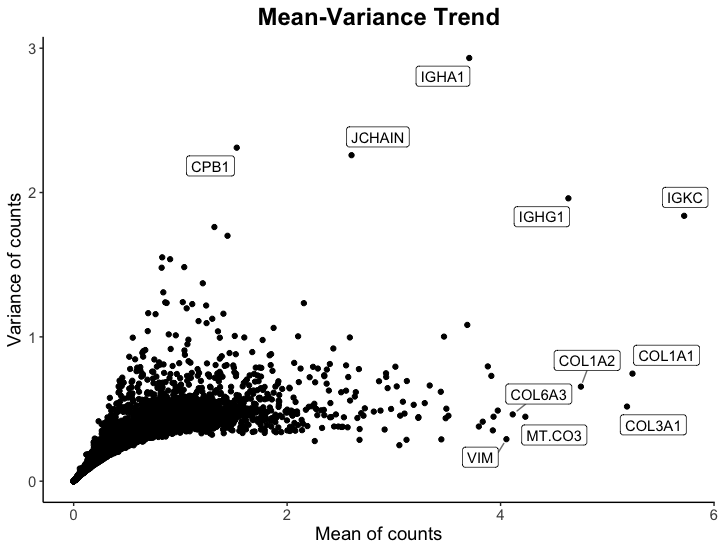
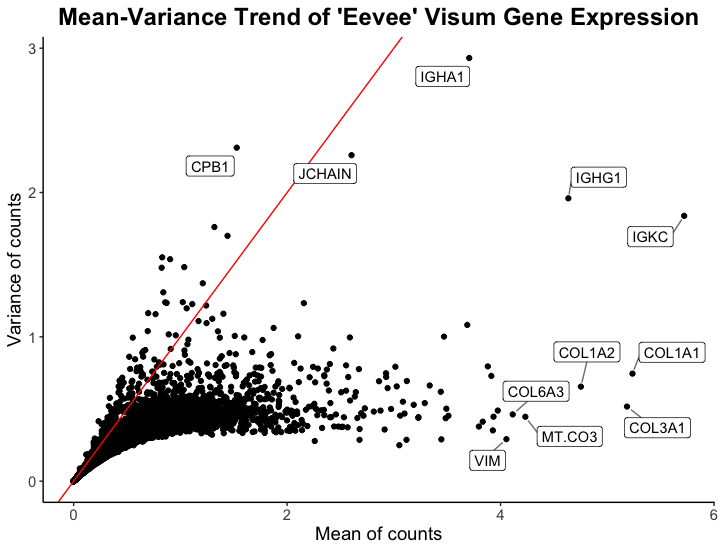
update photo, finish write up

diff --git a/_posts/2024-01-29-challin1.md b/_posts/2024-01-29-challin1.md
@@ -10,23 +10,36 @@ featured: false
 
 ### What data types are you visualizing?
 
+I am visualizing quantitative and categorical data. The quantitative data is the mean and variance of gene expression for all genes, while the categorical data being expressed is a handful of the names of high mean/variance genes.
+
 
 ### What data encodings (geometric primitives and visual channels) are you using to visualize these data types?
+
+The visual channel I am using to visualize the quantitative variables of mean and variance of gene expression is position, where the x-axis shows the mean of gene counts and the y-axis shows the variance of gene counts. The geometric primitive used for the quantitative variables are points.
+
+For the the categorical data of individual gene names, the visual channel I am using is position to express which point correspond to which gene name. I would argue there is not really a geometric primitive used here, however I heavily rely on Gestalts principle of enclosure (there is a border around the gene names) to draw the viewer's eye to the high mean/variance genes.
 
 
 ### What about the data are you trying to make salient through this data visualization? 
 
+My data visualization aims to make more salient the high mean and/or variance genes within the spatial transcriptomics visium data. Ideally, this plot aims to inform the analyst of what genes might be of interest in downstream analysis or spatial plotting of this spatial transcriptomics data.
+
+
 ### What Gestalt principles or knowledge about perceptiveness of visual encodings are you using to accomplish this?
 
+The main Gestalt principle I am utilizing is enclosure, where gene names are enclosed with a box next to the point that represents that gene. Another Gestalt principle I use is proximity to ensure viewers know which point corresponds to which gene name. Finally, one could say I use Gestalt's principle of continuity by plotting a red line with intercept 0 and slope 1 to express what the 1:1 relationship of the mean to variance ratio would look like in this plot.
+
+
 ```{r}
-# Eevee sequencing data class 1/26
+### HW1 ###
+## Caleb Hallinan ##
+## Eevee sequencing data##
 
 # import libraries
 library(here)
 library(ggplot2)
 library(tidyverse)
 library(ggrepel)
-
 
 # read in data
 data = read.csv(here("data/eevee.csv.gz"), row.names = 1)
@@ -59,6 +72,7 @@ rownames(mean_var_df) <- NULL
 ggplot(mean_var_df) +
   # geom point for mean/variance
   geom_point(aes(x = mean_genes, y = var_genes)) +
+  geom_abline(intercept = 0, slope = 1, color = "red") +
   # label high variance genes
   geom_label_repel(aes(x = mean_genes, y = var_genes, label=ifelse(var_genes>2, as.character(genes),'')),
                    box.padding   = 0.35,
@@ -82,4 +96,5 @@ ggplot(mean_var_df) +
     plot.title = element_text(hjust = 0.5, face="bold", size=18),
     text = element_text(size = 14)
   )
+  
 ```
